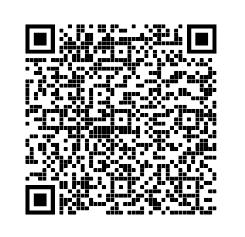
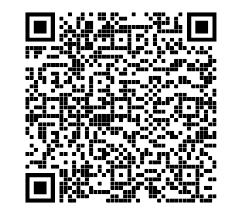
Updated README and qr code.

diff --git a/README.md b/README.md
@@ -5,7 +5,7 @@ Source code of the technical exam.
 
 ## How to Install
 
-<img src="/assets/qr-code-exam.png" width="245px" height="237px" alt="qr code">
+<img src="/assets/qr-code-exam.png" width="243px" height="219px" alt="qr code">
 
 Before installing the application, make sure that you are using android device or else it will not going to work.
 
